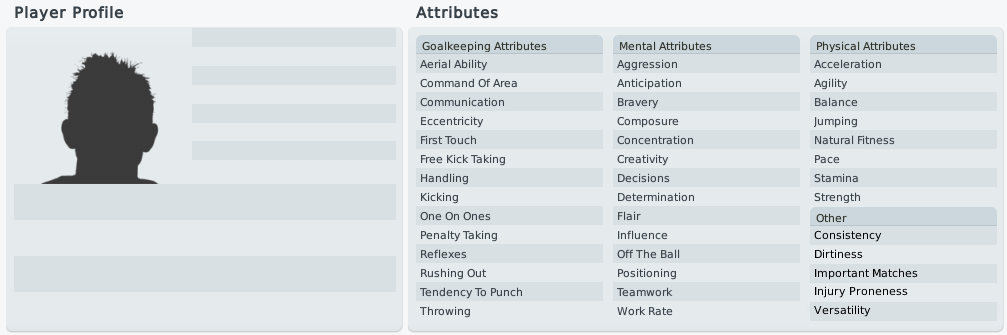
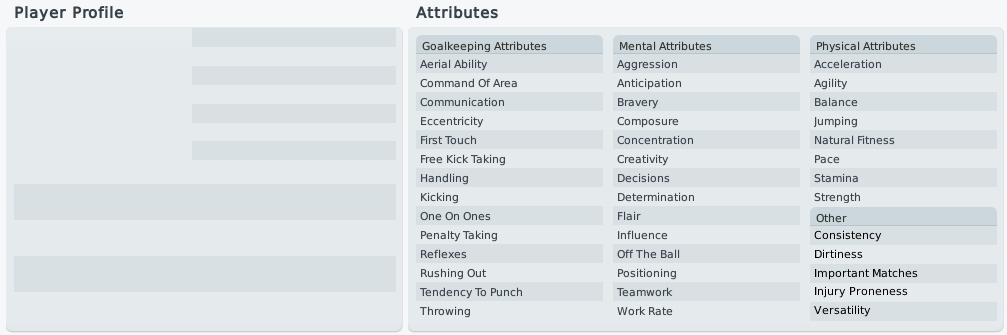
player photos in scout player preview panel are now dynamic - allowing male and female default images and real player photos if the user has some in their custom graphics folder

Changed region(s): [[0.0308, 0.1493, 0.1539, 0.5672]]

diff --git a/trunk/Person.m b/trunk/Person.m
@@ -557,4 +557,17 @@ unknownData1, unknownChar1, newFirstName, newSurname, newCommonName, transferID,
 	[staffData setLastClubID:[currentClub rowID]];
 }
 
+- (NSImage *)photo
+{
+	if ([[[[NSApp delegate] graphics] personPhotos] objectForKey:[NSNumber numberWithInt:UID]]!=nil)
+	{
+		NSImage *image = [[[NSImage alloc] initWithContentsOfFile:[[[[NSApp delegate] graphics] personPhotos] objectForKey:[NSNumber numberWithInt:UID]]] autorelease];
+		return image;
+	}
+	else {
+		if (female) { return [NSImage imageNamed:@"defaultperson_female"]; }
+		else { return [NSImage imageNamed:@"defaultperson_male"]; }
+	}
+}
+
 @end

diff --git a/trunk/Person.h b/trunk/Person.h
@@ -92,4 +92,6 @@
 - (BOOL)canTransfer;
 - (void)transfer:(Club *)newClub;
 
+- (NSImage *)photo;
+
 @end
